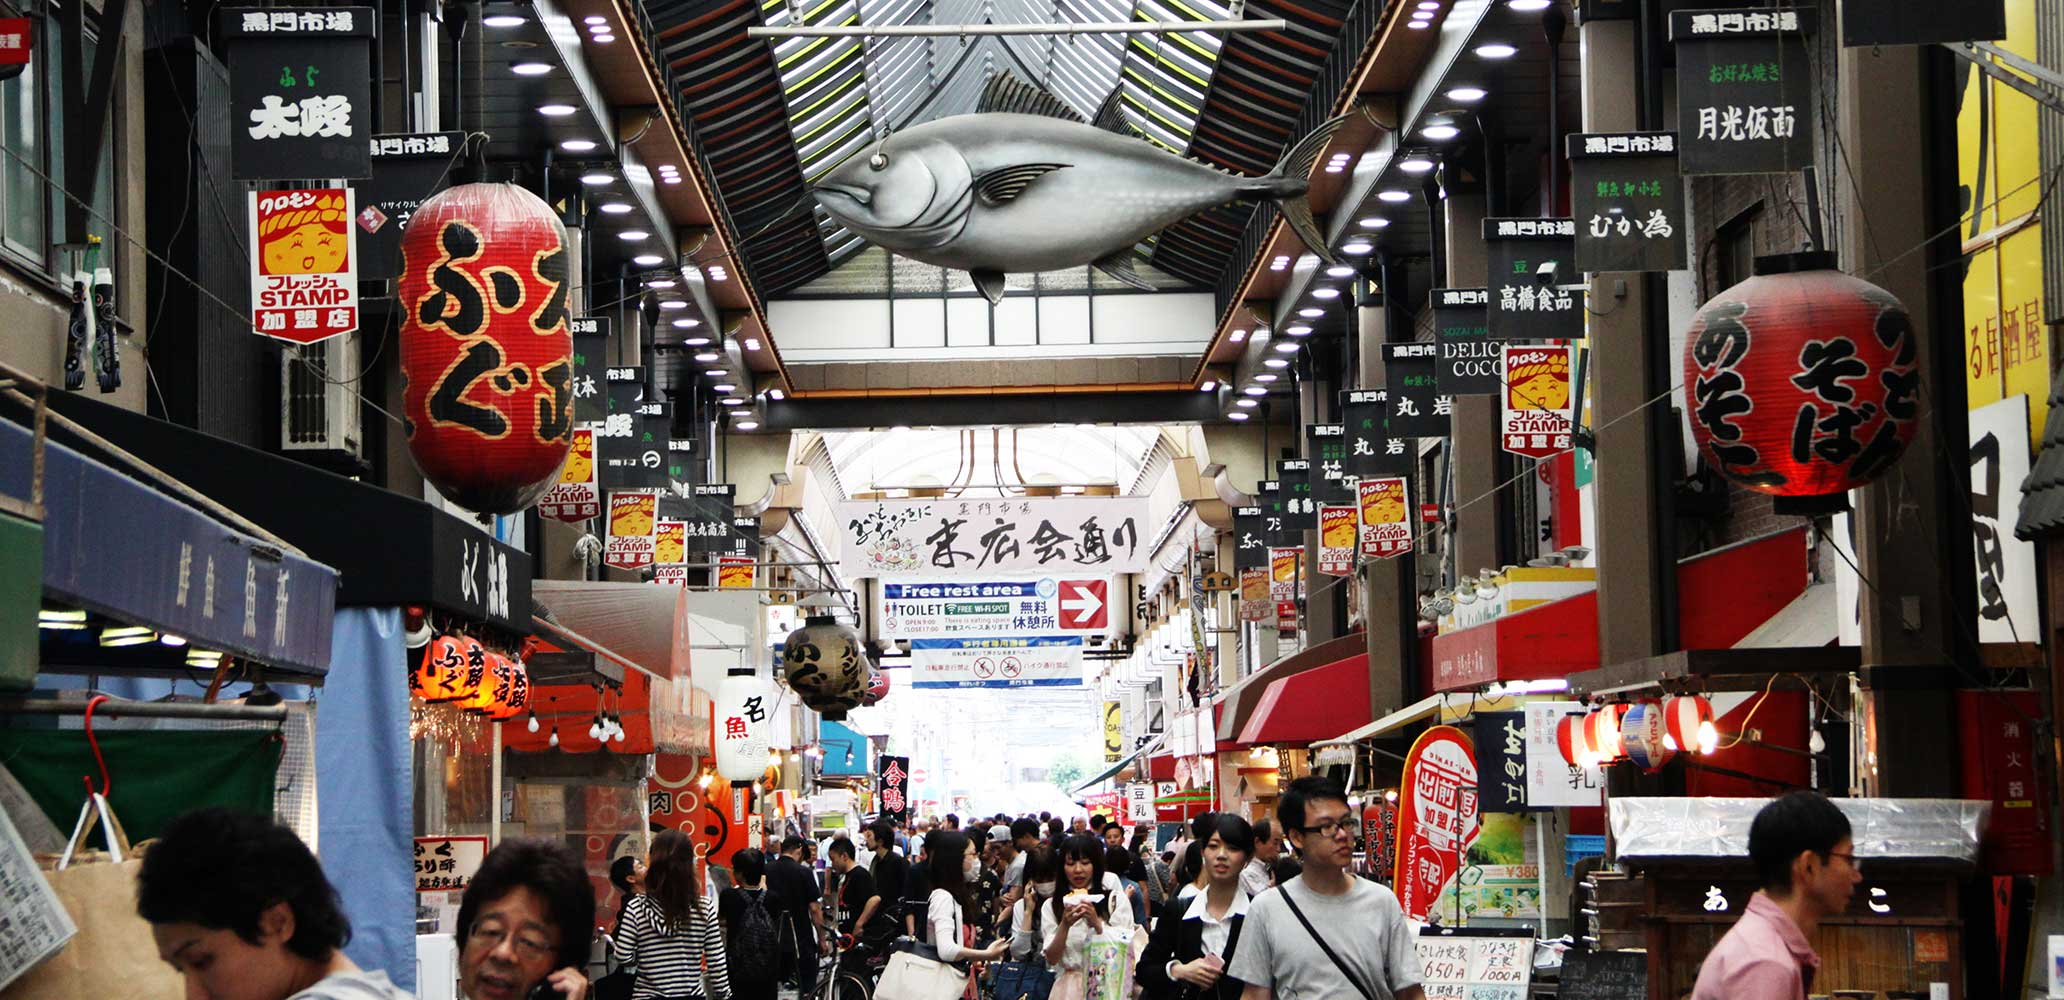
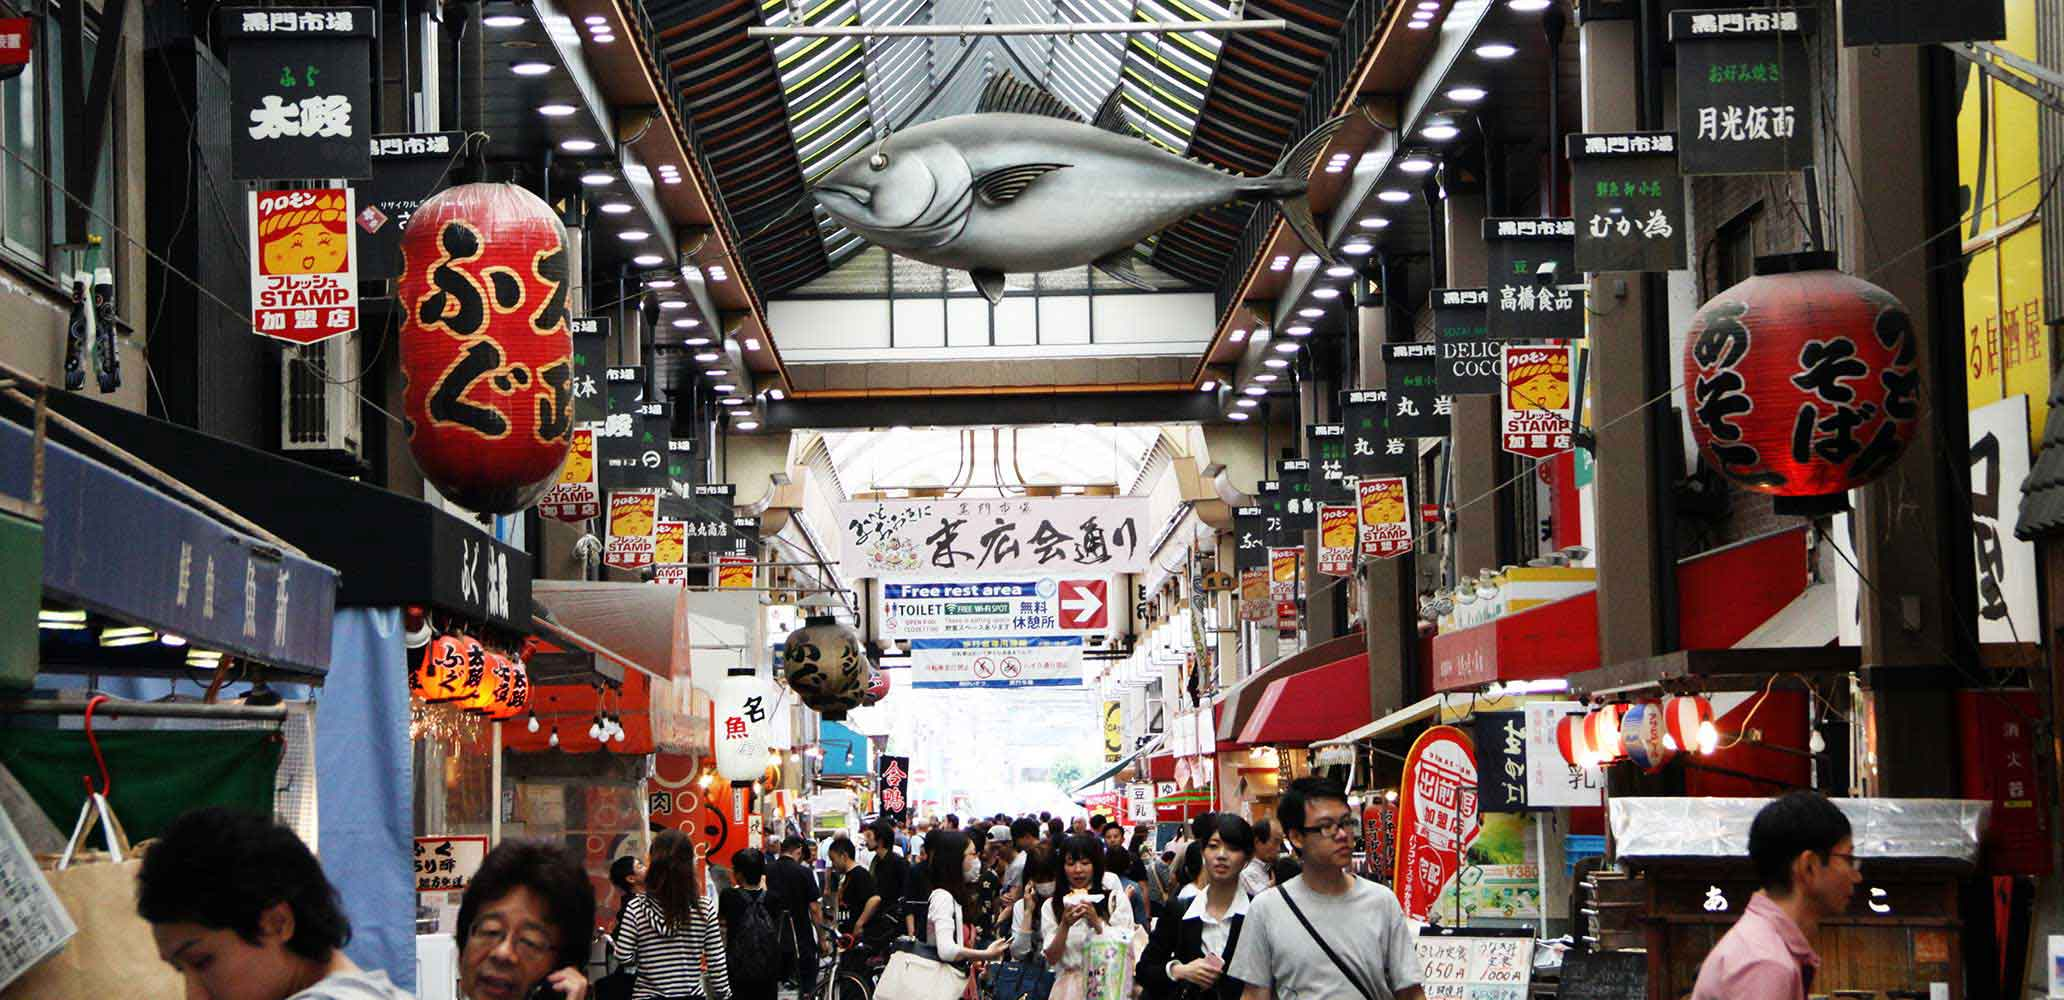
refine home img and style

Changed region(s): [[0.2171, 0.651, 0.2481, 0.713], [0.4031, 0.775, 0.4341, 0.806], [0.124, 0.279, 0.155, 0.31]]

diff --git a/public/css/bootstrap-desk.css b/public/css/bootstrap-desk.css
@@ -163,12 +163,12 @@ html, body {
 }
 .home-img-cover {
   background-color: #000000;
-  opacity: 0.5;
+  opacity: 0.3;
   position: absolute;
-  top: 41px;
+  top: 0;
   left: 0;
   width: 100%;
-  height: 460px;
+  height: 100%;
 }
 .home-img-content {
   position: absolute;
